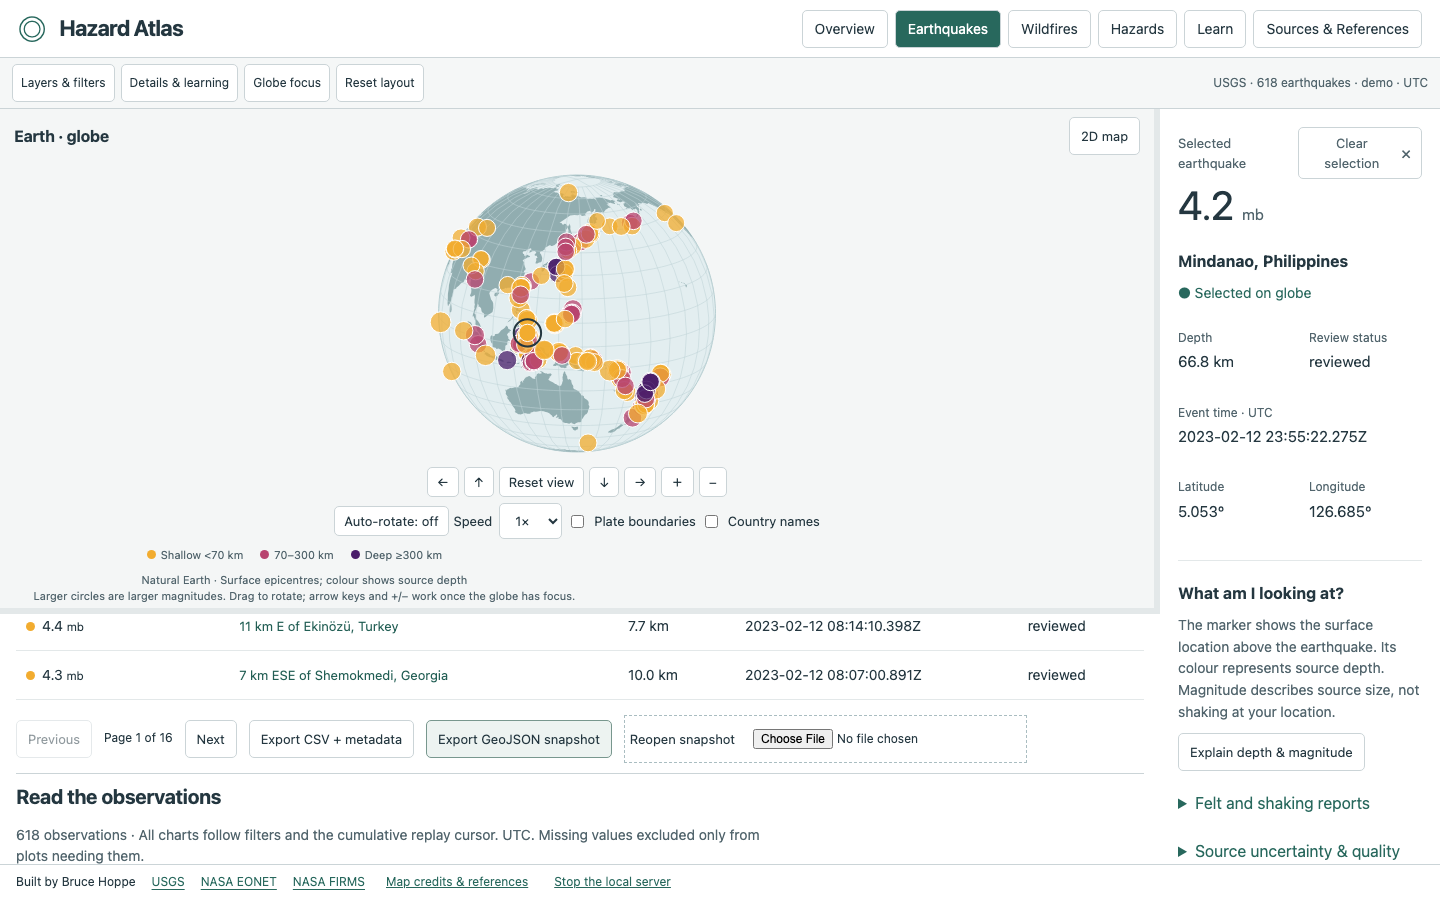
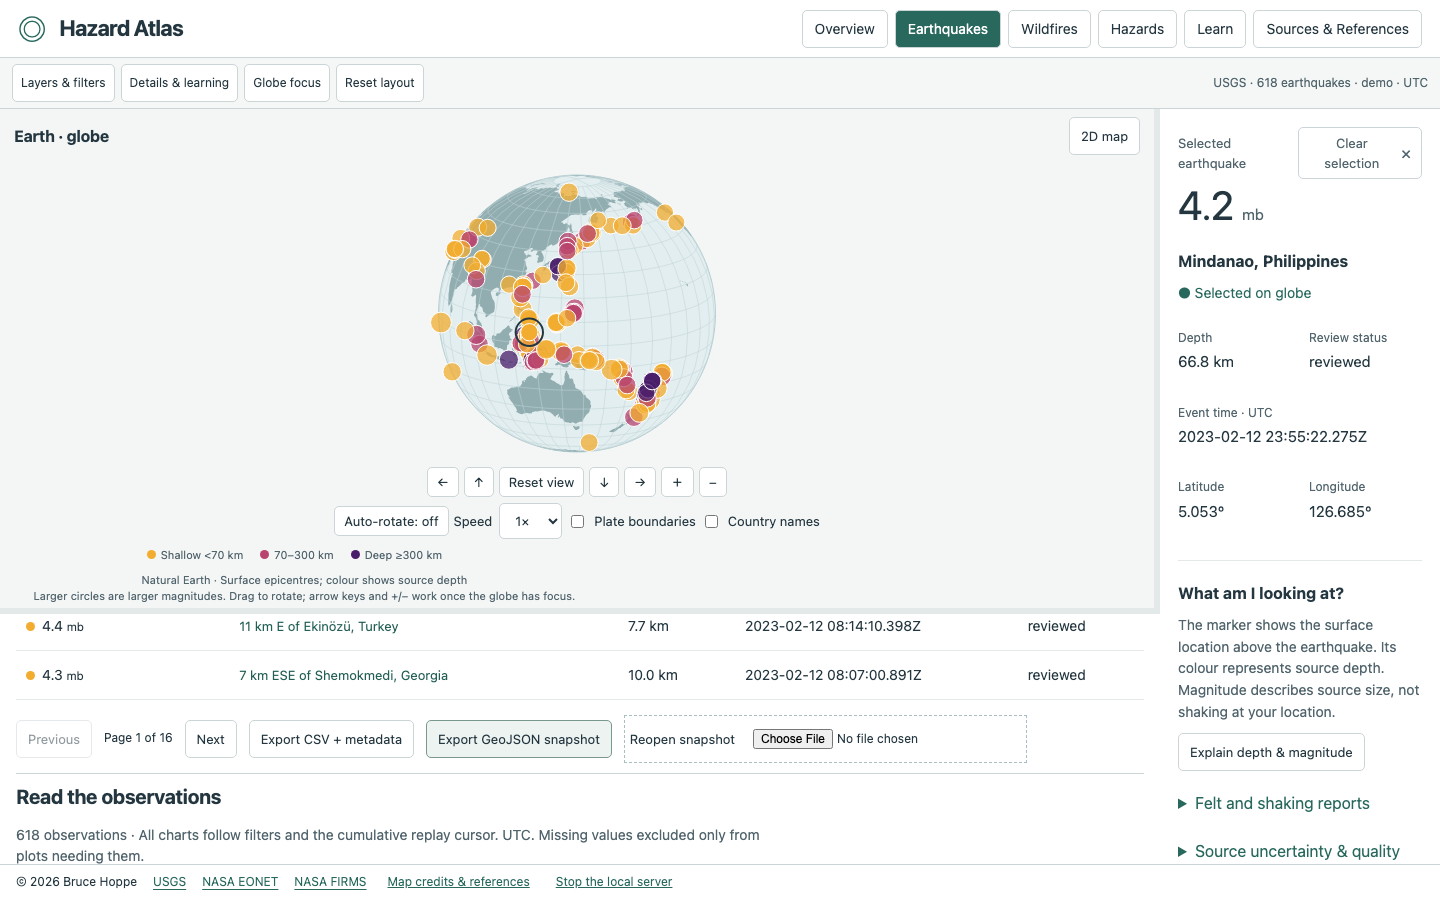
Remove the project's own repository links, 0.4.2
The footer now reads "© 2026 Bruce Hoppe", and no part of the interface
or its documentation links back to the project's repository: the footer,
the earthquake About panel, the hazard Sources panel, the README and the
quick start are all clear of it. The two panels previously carried the
only pointer to the licence, so each now names the MIT licence that ships
inside the archive rather than simply dropping the sentence.

Credits that point at other people's projects are deliberately untouched:
the tectonic plate dataset and the Tabler icon set are still linked, and
THIRD_PARTY_NOTICES.md still reproduces each upstream notice verbatim,
including its "(c)" spelling, because those attributions are owed to
their authors and are not ours to restyle.

LICENSE now uses © in place of the ASCII substitute in this project's own
copyright line.

Verified: go build/vet/test, tsc, 32 unit tests, the animation
regression, 15 hazards checks, 7 app checks, 9 browser checks with zero
axe violations across four routes, and 10 consumer checks against a
freshly extracted 0.4.2 archive. The running application was inspected on
the overview, Sources and About surfaces, each reporting no own-repository
anchors, and the shipped archive contains none in its documentation.

Claude-Session: https://claude.ai/code/session_01Pzjo216iRMbxULqf5ved4n

Changed region(s): [[0.3125, 0.2178, 0.4688, 0.4667], [0.0, 0.9644, 0.4688, 0.9956]]

diff --git a/web/src/main.tsx b/web/src/main.tsx
@@ -47,7 +47,6 @@ import {
   queryURL,
 } from "./data";
 import "./style.css";
-const repository = "https://github.com/bruce-hoppe_uoft/hazard-atlas";
 type SortKey = "mag" | "place" | "depth" | "time" | "status";
 const fmt = (v: number | null | undefined, digits = 1) =>
   v == null ? "Unavailable" : v.toFixed(digits);
@@ -1281,12 +1280,10 @@ export function EarthquakeApp({ active = true }: { active?: boolean }) {
                   Clicking source links opens the source website.
                 </p>
                 <p>
-                  Built by Bruce Hoppe. Source code, licence and issue tracker:{" "}
-                  <a href={repository} target="_blank" rel="noreferrer">
-                    {repository.replace("https://", "")}
-                  </a>
-                  . An independent educational project, not affiliated with or
-                  endorsed by the University of Toronto or the USGS.
+                  © 2026 Bruce Hoppe. Released under the MIT licence, included
+                  with this application. An independent educational project, not
+                  affiliated with or endorsed by the University of Toronto or
+                  the USGS.
                 </p>
                 {[
                   "Earthquake observations",

diff --git a/web/src/Atlas.tsx b/web/src/Atlas.tsx
@@ -1563,15 +1563,9 @@ function Atlas() {
               accounts or telemetry.
             </p>
             <p>
-              Built by Bruce Hoppe.{" "}
-              <a href="https://github.com/bruce-hoppe_uoft/hazard-atlas">
-                Hazard Atlas source code
-              </a>
-              . Based on{" "}
-              <a href="https://github.com/bruce-hoppe_uoft/earthquake-observatory">
-                Earthquake Observatory
-              </a>
-              . No NASA, USGS or University of Toronto endorsement.
+              © 2026 Bruce Hoppe. Released under the MIT licence, included with
+              this application. Based on Earthquake Observatory. No NASA, USGS
+              or University of Toronto endorsement.
             </p>
             {fireSources.map((s) => (
               <section>
@@ -1618,7 +1612,7 @@ function Atlas() {
         </div>
       )}
       <footer class="atlas-footer">
-        <span>Built by Bruce Hoppe</span>
+        <span>© 2026 Bruce Hoppe</span>
         <a href={sources[0].url}>USGS</a>
         <a href={fireSources[0].url}>NASA EONET</a>
         <a href={fireSources[1].url}>NASA FIRMS</a>

diff --git a/docs/release-readiness.md b/docs/release-readiness.md
@@ -58,7 +58,7 @@ Host: macOS arm64, Go 1.27.1, Node 26.8.1, headless Chromium 153.0.8010.12. Veri
 | Dependency vulnerabilities | `npm audit` reports zero; `go run golang.org/x/vuln/cmd/govulncheck@latest ./...` reports no vulnerabilities. Scan results are time-specific. |
 | Packaging | Hazard Atlas 0.4.0 macOS arm64, macOS amd64 and Windows amd64 cross-builds succeeded. Extracted macOS arm64 archive passed startup, embedded assets, demo, running backup, restart, clean-directory restore and integrity checks through `scripts/consumer-check.mjs`; see `consumer-test-results.json`. Native macOS Launch Services launch, live-mode configuration and ad-hoc signature verification remain local checks. Windows and Intel execution remain unverified. |
 | Upstream data quality | 125 of the 618 bundled place descriptions carry a question mark where a non-Latin-1 letter belongs (`Nurda??`, `Pazarc?k`). Verified as upstream: a fresh USGS query returns records identical to the bundled snapshot, differing only in the response's own `generated` timestamp. Descriptions are reproduced as supplied rather than corrected, because editing them would alter an observational record; see `sources.md`. Coordinates, magnitudes, depths and times are unaffected. |
-| Attribution/license | The production footer carries the plain-text credit `Built by Bruce Hoppe`, with no repository link and no address published in the interface; browser check asserts its visibility. The About and Sources panels still link the source code, licence and issue tracker. README, QUICKSTART, MIT LICENSE and third-party notices included in archives. |
+| Attribution/license | The production footer carries the plain-text notice `© 2026 Bruce Hoppe`, with no repository link and no address published in the interface; browser check asserts its visibility. The About and Sources panels still link the source code, licence and issue tracker. README, QUICKSTART, MIT LICENSE and third-party notices included in archives. |
 | CI | Workflow configured for Linux/macOS/Windows; no hosted CI run is claimed. |
 
 ## Remaining publication gates and deliberate operating limits

diff --git a/docs/sources.md b/docs/sources.md
@@ -18,4 +18,4 @@ Official provider documentation and data endpoints were checked 2026-09-06 UTC.
 
 Frozen demo fixtures were retrieved 2026-09-06 UTC. EONET was queried for wildfire records from 2026-09-01 through 2026-09-05. The FIRMS fixture is a public NOAA-20 24-hour CSV spatial subset for 125–110°W, 30–49°N on 2026-09-05 and contains 97 detections. The CWFIS fixture is the official 2026-09-05 daily Fire M3 hotspot CSV filtered to Canada and contains 309 detections. These are attributed demonstration snapshots, not proof of complete satellite coverage. Fixture provenance is in `internal/wildfire/testdata/provenance.json`.
 
-The withdrawn personal email footer credit is not present. The footer attribution is “Built by Bruce Hoppe,” carried as plain text rather than a repository link, alongside provider and geography credits; the About and Sources panels still link the source code and licence. Hazard Atlas does not imply NASA, USGS, GDACS, or University of Toronto endorsement.
+The withdrawn personal email footer credit is not present. The footer attribution is the copyright notice “© 2026 Bruce Hoppe,” carried as plain text rather than a repository link, alongside provider and geography credits; the About and Sources panels still link the source code and licence. Hazard Atlas does not imply NASA, USGS, GDACS, or University of Toronto endorsement.

diff --git a/CHANGELOG.md b/CHANGELOG.md
@@ -1,5 +1,11 @@
 # Changelog
 
+## 0.4.2 (2026-09-07 UTC)
+
+- The footer credit is now the copyright notice “© 2026 Bruce Hoppe”.
+- Removed every link to the project's own repository: from the footer, the earthquake About panel, the hazard Sources panel, the README and the quick start. Both panels now name the MIT licence, which ships with the application, in place of the former source-code link. Third-party credits that point at other projects, such as the tectonic plate dataset and the Tabler icon set, are unchanged, since those attributions are owed to their authors.
+- `LICENSE` uses the © character instead of the ASCII `(c)` substitute. Third-party notices are reproduced verbatim and were not touched.
+
 ## 0.4.1 (2026-09-07 UTC)
 
 - The footer credit is now the plain text “Built by Bruce Hoppe” rather than a link to the repository. The source code, licence and issue tracker remain linked from the About and Sources panels.

diff --git a/RELEASE_NOTES.md b/RELEASE_NOTES.md
@@ -1,3 +1,7 @@
+# 0.4.2 — local release
+
+The footer carries the copyright notice “© 2026 Bruce Hoppe”, and the application no longer links to its own repository anywhere: not from the footer, the About panel, the Sources panel, the README or the quick start. Both panels now point to the MIT licence that ships with the application instead. Credits to other projects, such as the tectonic plate dataset and the Tabler icon set, are unchanged, because those attributions are owed to their authors.
+
 # 0.4.1 — local release
 
 The footer credit reads “Built by Bruce Hoppe” as plain text and no longer links to the repository. The source code, licence and issue tracker are still reachable from the About and Sources panels.

diff --git a/README.md b/README.md
@@ -93,5 +93,5 @@ Read [QUICKSTART](QUICKSTART.md), [baseline](docs/baseline.md), [migration plan]
 Licensed under the [MIT License](LICENSE). Third-party licenses are recorded in [THIRD_PARTY_NOTICES.md](THIRD_PARTY_NOTICES.md). This is an educational observatory, not an earthquake prediction or emergency warning service.
 
 
-Built by Bruce Hoppe · [github.com/bruce-hoppe_uoft/hazard-atlas](https://github.com/bruce-hoppe_uoft/hazard-atlas)
+© 2026 Bruce Hoppe
 # hazard-atlas

diff --git a/QUICKSTART.md b/QUICKSTART.md
@@ -17,4 +17,4 @@ Data lives in the operating system's user configuration directory under `HazardA
 Windows: keep the console window open while using the app; Ctrl+C stops it. macOS: choose **Stop the local server** at the foot of the page when finished.
 
 
-Built by Bruce Hoppe · [github.com/bruce-hoppe_uoft/hazard-atlas](https://github.com/bruce-hoppe_uoft/hazard-atlas)
+© 2026 Bruce Hoppe
